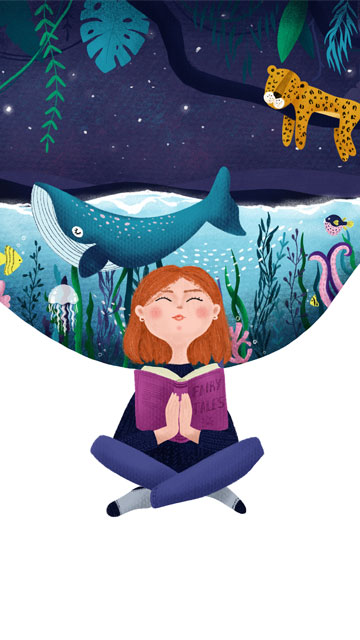
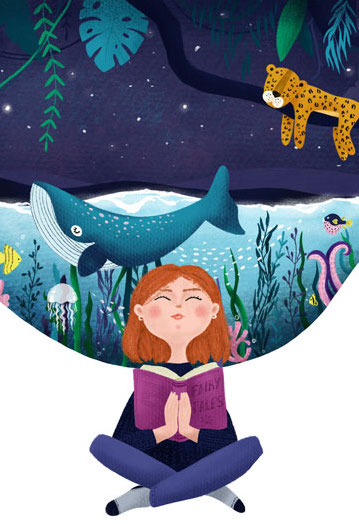
change layout and add a form

diff --git a/index.html b/index.html
@@ -12,24 +12,33 @@
 </head>
 
 <body>
-  <!-- <div class=""> -->
-    <img id="animated-arrow" class="visible-arrow" src="images/animated_arrow_for_mobile.png" alt="animated arrow to scroll down" title="animated arrow">
-  <!-- </div> -->
 
-  <div class="image-wrapper image-wrapper-1">
-    <img class="background-image background-image-1" src="images/background_mobile_1.jpg" alt="background image with a girl reading a book and imagining something" title="a girl reading a book">
-    <div class="title-wrapper">
-      <h1 class="title">COMING SOON</h1>
-    </div>
+  <div class="box-container box-container-upper">
+    <img class="first-image" src="images/background_mobile_1.jpg" alt="decorative image with a girl reading a book and imagining something" title="a girl reading a book">
+    <h1 id="coming-soon-h1" class="title">COMING SOON</h1>
+    <img id="animated-arrow" class="visible-arrow" src="images/animated_arrow_for_mobile.png" alt="animated arrow to scroll down" title="animated arrow">
   </div>
 
-  <div class="image-wrapper image-wrapper-2">
-    <img class="background-image background-image-2" src="images/background_mobile_2.jpg" alt="decorative background image">
-    <div class="text-and-form-wrapper">
-<p>Take your child to the magic world of fairytales, agmes & learning.</p>
-<p>Blue Snail is an interactive digital library.Your child can learn through reading, playing and also share this experience with you.</p>
-<p>Subscribe to be the frist one to know it comes out</p>
-    </div>
+  <div class="box-container box-container-lower">
+<div class="lower-flex-item">
+  <p>Take your child to the magic world of fairytales, games & learning.</p>
+  <p>Blue Snail is an interactive digital library.Your child can learn through reading, playing and also share this experience with you.</p>
+  <p>Subscribe to be the frist one to know it comes out</p>
+</div>
+<div class="lower-flex-item">
+  <p>Take your child to the magic world of fairytales, games & learning.</p>
+  <p>Blue Snail is an interactive digital library.Your child can learn through reading, playing and also share this experience with you.</p>
+  <p>Subscribe to be the frist one to know it comes out</p>
+</div>
+  <!-- <form class="contact-form lower-flex-item" action="" method="post">
+    <label class="form-item" for="name-input">Name</label>
+    <input type="text" name="name" value="" id="name-input" required>
+    <label for="email-input">Email</label>
+    <input type="email" name="email" value="" id="email-input" required>
+    <input type="checkbox" name="checkbox" value="" id="checkbox-input" required>
+    <label for="checkbox-input">I have read <a href="https://anavidev.com/privacy-policy-2/">Privacy Policy</a> and consent to <a href="https://anavidev.com/terms-and-conditions/">Terms and Conditions</a></label>
+  </form> -->
+
   </div>
   <script src="js/script.js"></script>
 </body>

diff --git a/style.css b/style.css
@@ -7,69 +7,61 @@ html {
 }
 
 body {
-  background-color: #9e853f;
+  /* background-color: #9e853f; */
   margin: 0;
   font-family: 'Lato', sans-serif;
 }
 
 /*this class is for the element animated-arrow it makes it appear at the bottom*/
 .visible-arrow {
-  display:block;
-  position: fixed;
-  bottom: 4%;
   margin-left: 46%;
   margin-right: auto;
+  margin-bottom: 3em;
   width: 8%;
+  height: auto;
   z-index: 1;
 }
 
+/* Question: Why display hidden has very strange behavoir here??? */
 .hidden-arrow {
-  display: none;
+  visibility: hidden;
 }
 
-.image-wrapper {
-  background-color: red;
-  /* this line of code assures that the children can have absolute position */
-  position: relative;
+.box-container {
   text-align: center;
+  display: flex;
+  flex-direction: column;
+  justify-content: space-between;
+  height: 100vh
 }
 
-.background-image {
+.box-container-upper {
+
+}
+.box-container-lower {
+  background-image: url("images/background_mobile_2.jpg");
+  background-repeat: no-repeat;
+  background-size: 100% 100%;
+}
+.lower-flex-item{
+  display: flex;
+  flex-direction: column;
+}
+.form-item{
+}
+.first-image {
   /* putting display blok on the image solves the problem of seeing a part of the div it is inside */
   display: block;
   width: 100%;
   height: auto;
 }
 
-.title-wrapper {
-  /* in order for child to have an absolute position it's parent should have a relative one */
-  width: 100%;
-  padding: 0;
-  margin: 0;
-  position: absolute;
-  bottom: 5%;
-  left: 50%;
-  transform: translate(-50%, -50%);
-}
-
 .title {
-  padding: 0;
-  margin: 0;
   color: #f3afcb;
   white-space: nowrap;
-  /* font-size: 1em; */
 }
-.text-and-form-wrapper {
-  position: absolute;
-  width: 100%;
-  top: 0;
-  left: 0;
-  bottom: 0;
-  right: 0;
-  display: flex;
-  flex-direction: column;
-}
+
 p {
-margin-left: 10%;
-margin-right: 10%;
+  margin-left: 10%;
+  margin-right: 10%;
 }
